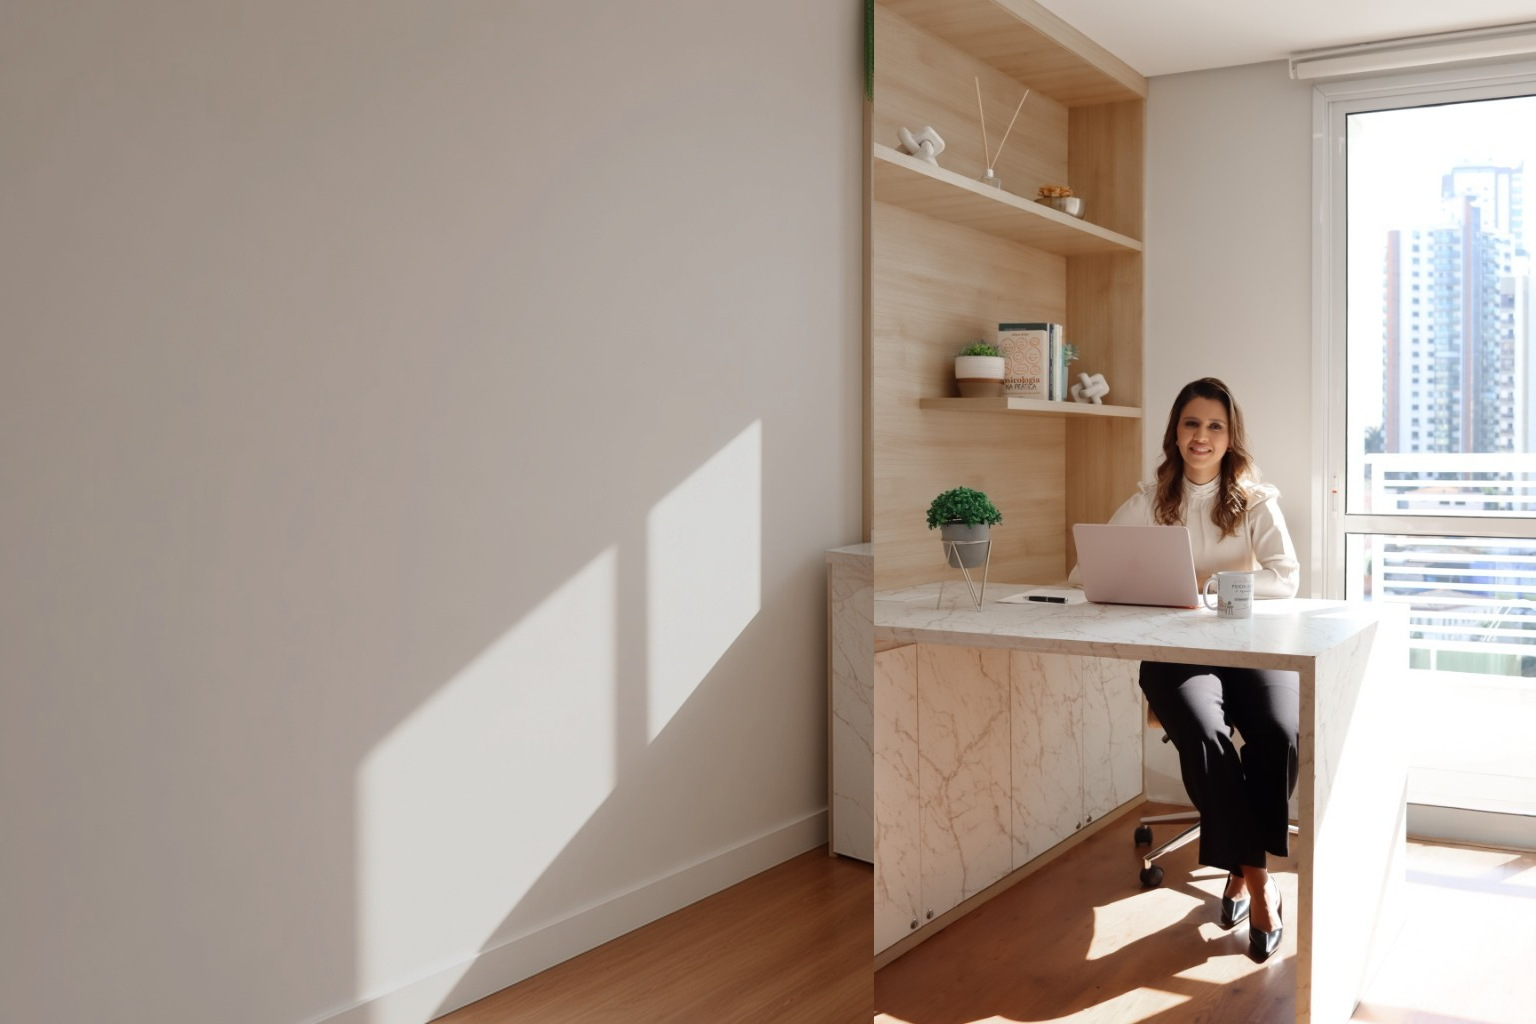
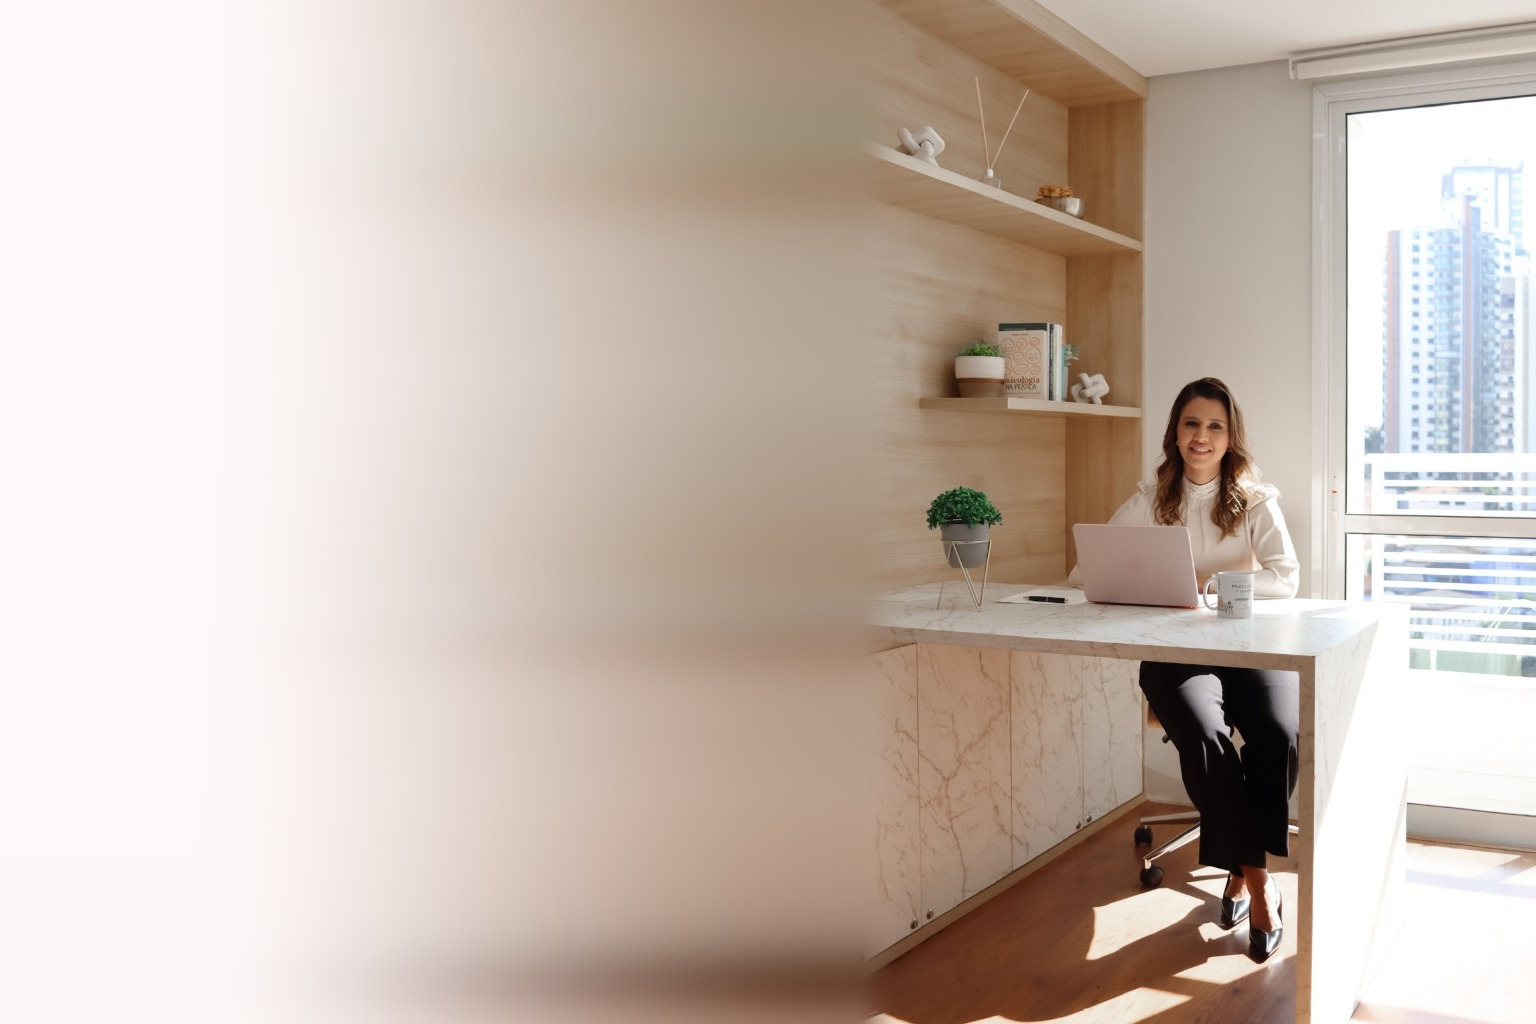
Replace the Atendimento hero with the new desk photo and a cream left fade.
Keep Thais's original face and match the home hero treatment so the headline stays readable.

diff --git a/atendimento.html b/atendimento.html
@@ -83,7 +83,7 @@
     <main id="conteudo">
       <section class="page-hero page-hero-cover hero-zoom-soft atendimento-hero" id="inicio">
         <div class="hero-cover-frame">
-          <img class="hero-cover-img" src="assets/photos/atendimento-hero-wide.jpg" alt="" width="1536" height="1024" />
+          <img class="hero-cover-img" src="assets/photos/atendimento-hero-wide.jpg?v=grad1" alt="" width="1536" height="1024" />
         </div>
         <div class="page-hero-inner">
           <div class="page-hero-copy">
